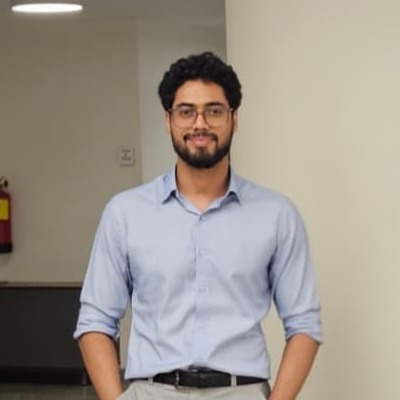
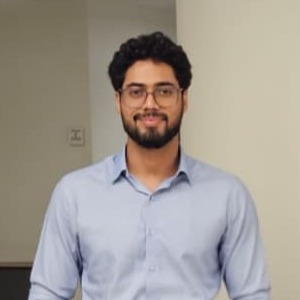
Initial portfolio

diff --git a/assets/css/style.css b/assets/css/style.css
@@ -434,7 +434,7 @@ p { margin: 0; }
   display: grid;
   grid-template-columns: 1fr 1fr;
   gap: 56px;
-  align-items: start;
+  align-items: stretch;
 }
 .about-copy {
   background: var(--bg-card);
@@ -474,19 +474,42 @@ p { margin: 0; }
   padding-bottom: 16px;
   border-bottom: 2px solid var(--border-soft);
 }
+.skill-group {
+  background: var(--bg-card-alt);
+  border: 1px solid var(--border-subtle);
+  border-radius: var(--radius-md);
+  padding: 18px 18px 20px;
+}
+.skill-group-head {
+  display: flex;
+  align-items: center;
+  gap: 12px;
+  margin-bottom: 14px;
+}
+.skill-group-icon {
+  width: 34px;
+  height: 34px;
+  border-radius: 9px;
+  flex-shrink: 0;
+  display: grid;
+  place-items: center;
+  font-size: 1rem;
+  color: var(--on-dark);
+}
+.skill-group-icon.icon-product { background: var(--navy-700); }
+.skill-group-icon.icon-data { background: var(--camel-600); }
+.skill-group-icon.icon-tools { background: var(--navy-600); }
 .skill-group h4 {
   font-family: var(--font-body);
   font-weight: 700;
-  font-size: 0.78rem;
-  text-transform: uppercase;
-  letter-spacing: 0.07em;
-  color: var(--navy-700);
-  margin: 0 0 12px;
+  font-size: 0.98rem;
+  color: var(--ink);
+  margin: 0;
 }
 .skill-pills { display: flex; flex-wrap: wrap; gap: 9px; }
 .skill-pills li {
   padding: 7px 14px;
-  background: var(--bg-card-alt);
+  background: var(--bg-card);
   border-radius: 999px;
   font-size: 0.85rem;
   color: var(--ink);

diff --git a/index.html b/index.html
@@ -96,7 +96,10 @@
           <h2 class="about-panel-title">Skills &amp; Toolkit</h2>
 
           <div class="skill-group">
-            <h4>Product</h4>
+            <div class="skill-group-head">
+              <span class="skill-group-icon icon-product">🧭</span>
+              <h4>Product</h4>
+            </div>
             <ul class="skill-pills">
               <li>Product Discovery &amp; Strategy</li>
               <li>KPI &amp; Metrics Design</li>
@@ -110,7 +113,10 @@
           </div>
 
           <div class="skill-group">
-            <h4>Data</h4>
+            <div class="skill-group-head">
+              <span class="skill-group-icon icon-data">📊</span>
+              <h4>Data</h4>
+            </div>
             <ul class="skill-pills">
               <li>SQL (BigQuery)</li>
               <li>Python (Jupyter / Pandas)</li>
@@ -122,7 +128,10 @@
           </div>
 
           <div class="skill-group">
-            <h4>Tools</h4>
+            <div class="skill-group-head">
+              <span class="skill-group-icon icon-tools">🛠</span>
+              <h4>Tools</h4>
+            </div>
             <ul class="skill-pills">
               <li>Power BI</li>
               <li>Figma</li>
